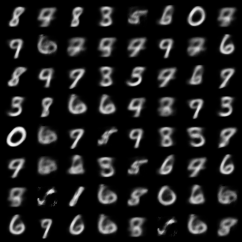
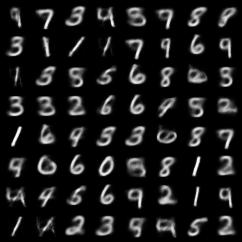
VAE for MNIST with PyTorch

diff --git a/main.py b/main.py
@@ -16,15 +16,15 @@ from torchvision.utils import save_image
 # --- parsing and configuration --- #
 parser = argparse.ArgumentParser(
     description="PyTorch implementation of VAE for MNIST")
-parser.add_argument('--batch-size', type=int, default=64,
+parser.add_argument('--batch-size', type=int, default=128,
                     help='batch size for training (default: 128)')
-parser.add_argument('--epochs', type=int, default=1000,
-                    help='number of epochs to train (default: 60)')
+parser.add_argument('--epochs', type=int, default=80,
+                    help='number of epochs to train (default: 80)')
 parser.add_argument('--z-dim', type=int, default=2,
                     help='dimension of hidden variable Z (default: 2)')
 parser.add_argument('--log-interval', type=int, default=100,
                     help='interval between logs about training status (default: 100)')
-parser.add_argument('--learning-rate', type=int, default=1e-4,
+parser.add_argument('--learning-rate', type=int, default=1e-3,
                     help='learning rate for Adam optimizer (default: 1e-3)')
 parser.add_argument('--prr', type=bool, default=True,
                     help='Boolean for plot-reproduce-result (default: True')
@@ -33,9 +33,9 @@ parser.add_argument('--prr-z1-range', type=int, default=2,
 parser.add_argument('--prr-z2-range', type=int, default=2,
                     help='z2 range for plot-reproduce-result (default: 2)')
 parser.add_argument('--prr-z1-interval', type=int, default=0.2,
-                    help='interval of z1 for plot-reproduce-result (default: 0.1)')
+                    help='interval of z1 for plot-reproduce-result (default: 0.2)')
 parser.add_argument('--prr-z2-interval', type=int, default=0.2,
-                    help='interval of z2 for plot-reproduce-result (default: 0.1)')
+                    help='interval of z2 for plot-reproduce-result (default: 0.2)')
 
 args = parser.parse_args()
 BATCH_SIZE = args.batch_size
@@ -195,7 +195,7 @@ def plot_along_axis(epoch):
             sample[idx][1] = z2[j]
 
     sample = model.decode(sample).cpu().view(num_z, 1, 28, 28)
-    save_generated_img(sample, 'plot_along_z1_and_z2_axis_', epoch, num_z1)
+    save_generated_img(sample, 'plot_along_z1_and_z2_axis', epoch, num_z1)
 
 
 # --- main function --- #

diff --git a/README.md b/README.md
@@ -14,9 +14,9 @@ The following results are made with the default setting. (command: python main.p
 <td> Manifold(num of z = 2) </td>
 </tr>
 <tr>
-<td><img src = 'results/reconstruction_60.png' width = '300px'>
-<td><img src = 'results/sample_60.png' width = '300px'>
-<td><img src = 'results/plot_along_z1_and_z2_axis__60.png' width = '300px'>
+<td><img src = 'results/reconstruction_80.png' width = '300px'>
+<td><img src = 'results/sample_80.png' width = '300px'>
+<td><img src = 'results/plot_along_z1_and_z2_axis__80.png' width = '300px'>
 </tr>
 </table>
 
